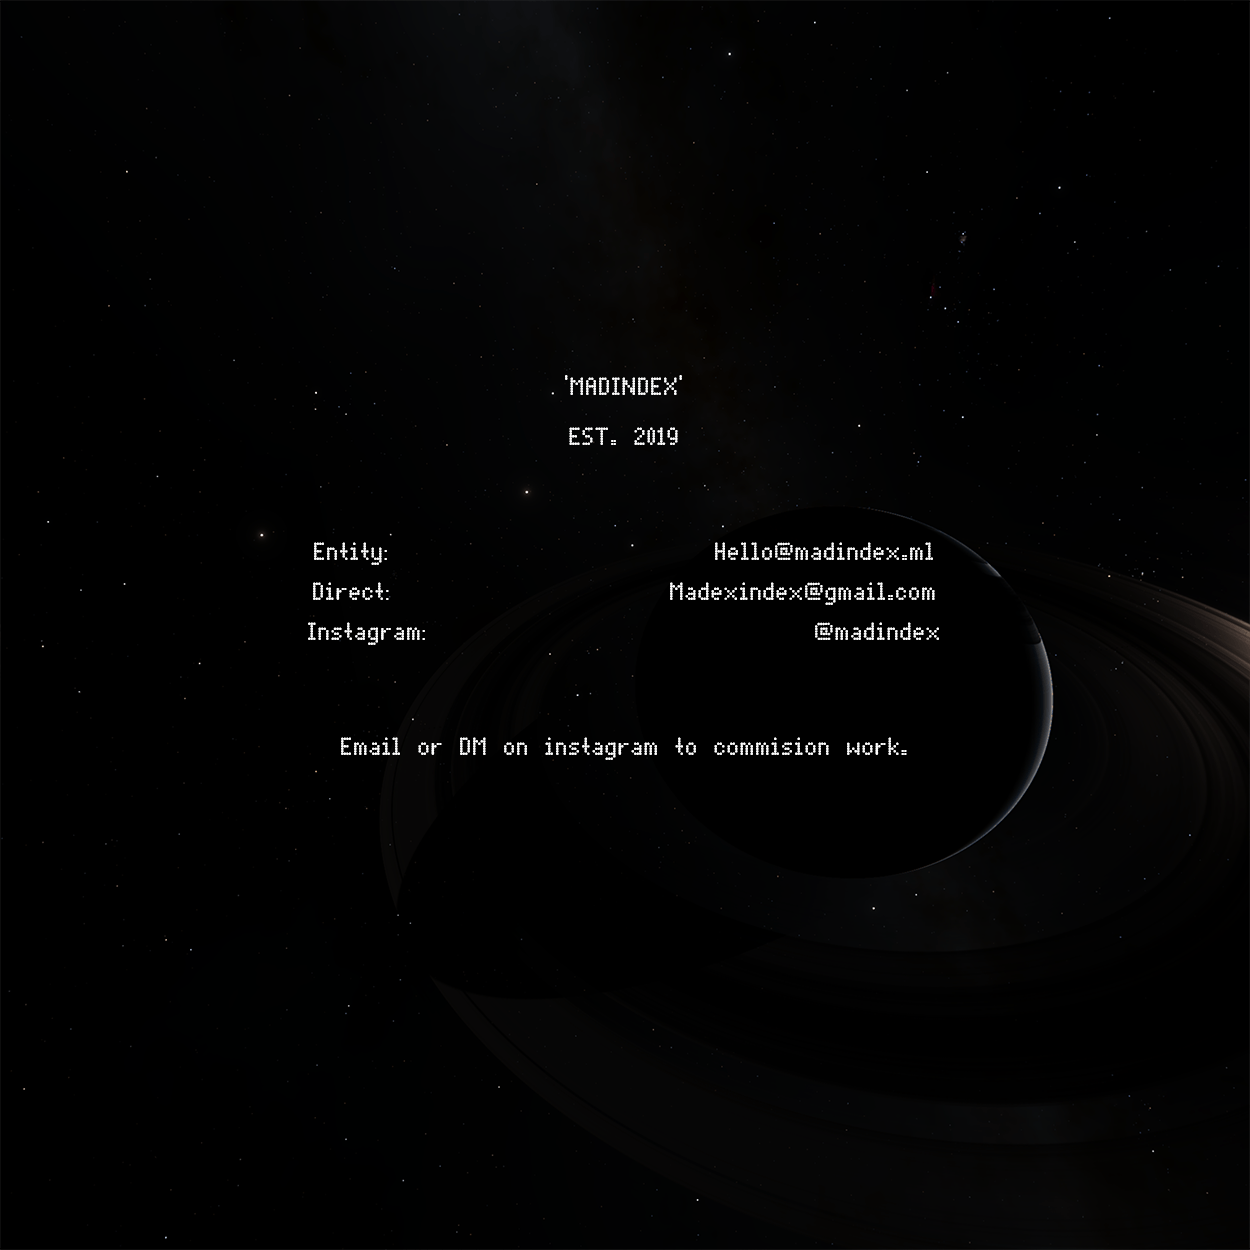
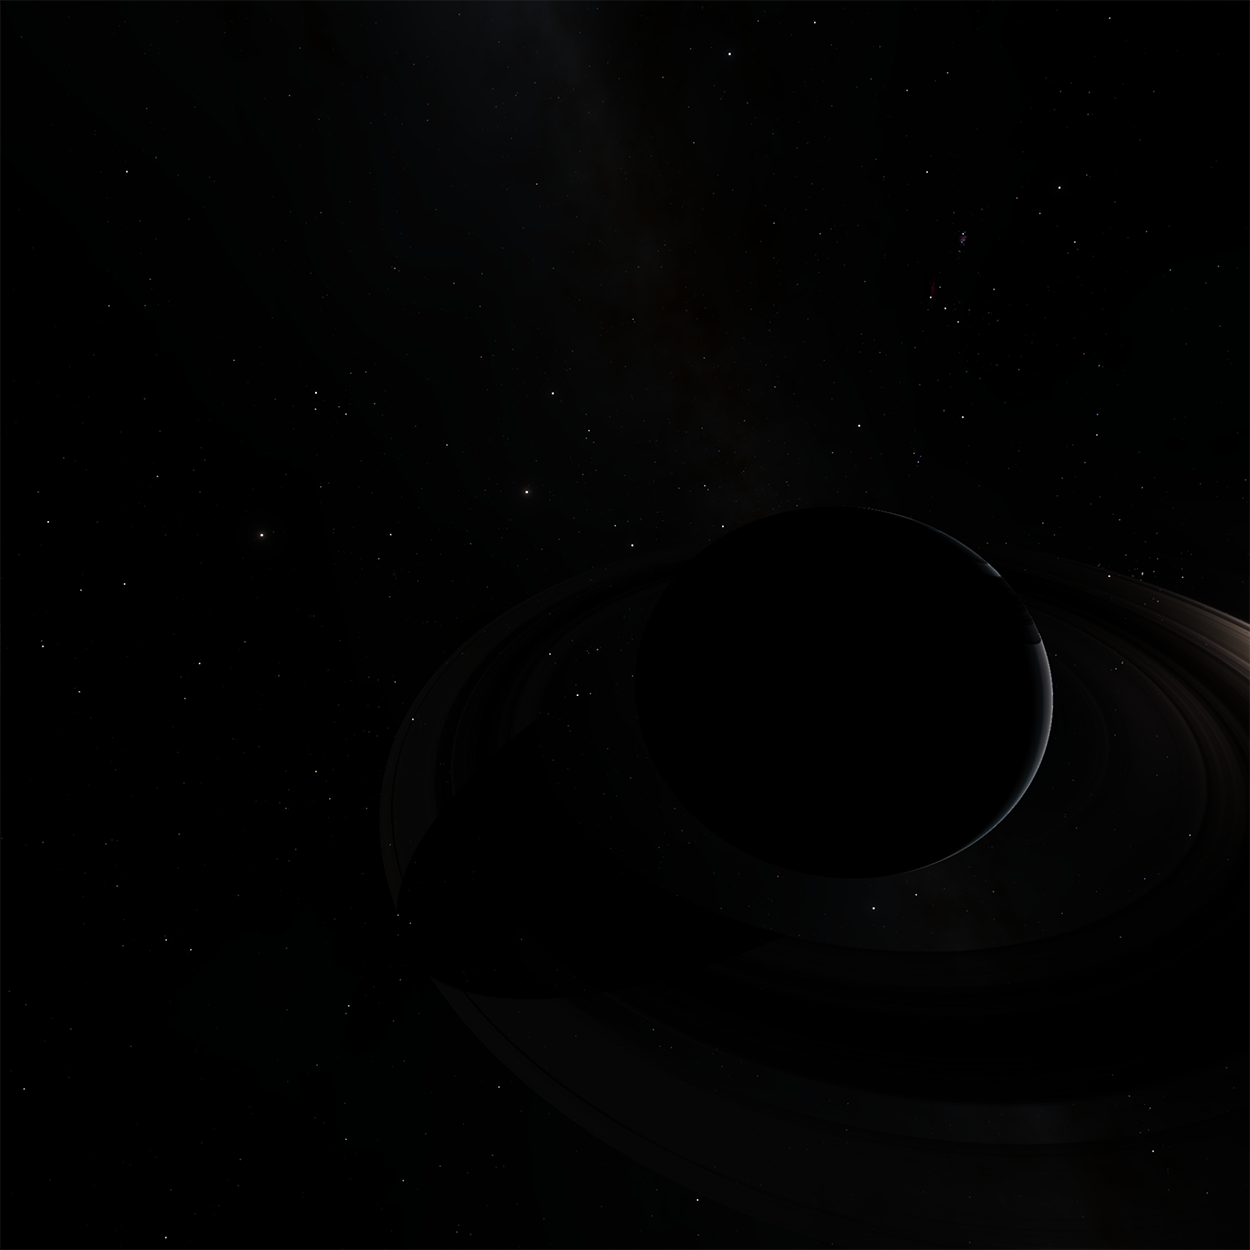
update

diff --git a/index.html b/index.html
@@ -21,41 +21,57 @@ $(window).on('load', function(){
   setTimeout(removeLoader, 2000); //wait for page load PLUS two seconds.
 });
 function removeLoader(){
+
     $( "#loadingDiv" ).fadeOut(500, function() {
+        $('html, body').css({overflow: 'hidden'});
       // fadeOut complete. Remove the loading div
+      $('html, body').css({overflow: 'visible'});
       $( "#loadingDiv" ).remove(); //makes page more lightweight 
   });  
 }
 </script>
+    
+<div class="header">
+    <p>hey</p>
+</div>
 
+<canvas style="position:fixed;border:none;max-width:10%;max-height:10%;z-index:3;padding-top:1%;padding-left:1%;", id="hero-lightpass"></canvas>
 
+<div id="div1"></div>
     
 <script>
 
 var scene = new THREE.Scene();
 var camera = new THREE.PerspectiveCamera(60, 1, 1, 1000);
-camera.position.set(0, 0, 50);
+camera.position.set(0, 0, 0);
+camera.rotation.y = -20.35;
 var renderer = new THREE.WebGLRenderer({
   antialias: true
 });
 renderer.setClearColor(0x808080);
 renderer.setPixelRatio( window.devicePixelRatio );
 renderer.physicallyCorrectLights = true;
-var canvas = renderer.domElement
-document.body.appendChild(canvas);
+var canva = renderer.domElement
+document.body.appendChild(canva);
     
 sphereCamera = new THREE.CubeCamera(1,1000,50);
 sphereCamera.position.set(0,100,0);
 scene.add(sphereCamera);
 
-var controls = new THREE.OrbitControls(camera, renderer.domElement);
-controls.enableZoom = false;
+
+function updateCamera(ev) {
+    let div1 = document.getElementById("div1");
+	camera.rotation.y = -1.5 + window.scrollY / 250.0;
+}
+window.addEventListener("scroll", updateCamera);
+
     
 let urls = [
     'pxx.png', 'nxx.png',
     'pyy.png', 'nyy.png',
     'pzz.png', 'nzz.png'
 ];
+
     
 let loaded = new THREE.CubeTextureLoader();
     scene.background = loaded.load(urls);
@@ -68,21 +84,24 @@ scene.add( directionalLight );
 directionalLight.position.set(0.5,0,2);
 
 render();
+animate();
 
 function render() {
   if (resize(renderer)) {
-    camera.aspect = canvas.clientWidth / canvas.clientHeight;
+    camera.aspect = canva.clientWidth / canva.clientHeight;
     camera.updateProjectionMatrix();
   }
+  camera.rotation.x += 0.001;
   renderer.render(scene, camera);
   requestAnimationFrame(render);
 }
+    
 
 function resize(renderer) {
-  const canvas = renderer.domElement;
-  const width = canvas.clientWidth;
-  const height = canvas.clientHeight;
-  const needResize = canvas.width !== width || canvas.height !== height;
+  const canva = renderer.domElement;
+  const width = canva.clientWidth;
+  const height = canva.clientHeight;
+  const needResize = canva.width !== width || canva.height !== height;
   if (needResize) {
     renderer.setSize(width, height, false);
   }
@@ -90,5 +109,7 @@ function resize(renderer) {
 }
 </script>
 <script src="madin.js"></script>
+<div class="funny">
+</div>
 </body> 
 </html>

diff --git a/css/style.css b/css/style.css
@@ -1,41 +1,82 @@
 html, body {
+  overflow: auto;
   height: 100%;
   width: 100%;
   margin: 0;
-  overflow: hidden;
+  background-color: black;
 }
 canvas {
   object-fit: cover;
+  position: fixed;
   width: 100%;
   height: 100%;
   display: block;
+  margin: 0 auto;
+  z-index: 1;
 }
-canver {
+.header {
+    position: fixed;
+    z-index: 2;
+    width: 100%;
+    padding-top: 5%;
+    background-color: black;
+    border-bottom: 1px solid ghostwhite;
+}
+.funny {
+    padding-top: 200%;
+}
+placer {
+  object-fit: cover;
+  width: 50%;
+  height: 50%;
+  display: block;
+  margin: 0 auto;
+  margin-top: 30%;
+  z-index: 1;
+  border: 1px solid white;
+}
+coocoo {
   position: fixed;
   max-width: 100%;
   max-height: 100%;
   left: 50%;
   z-index: 999;
+  margin-top: 10%;
 }
 a:hover, a:visited, a:link, a:active
 {text-decoration: none;
 color: white;}
 
+.border {
+  position: fixed;
+  top: 0;
+  left: 0;
+  border: 12px solid red;
+  width: 100%;
+  height: 100%;
+  margin: 0;
+  padding: 0;
+  box-sizing: border-box;
+  z-index: -1;
+}
 .post {
     position: static;
     display: flex;
     justify-content: center;
     margin-top: 20%;
+    z-index: 999;
 }
 .loader,
 .loader:after {
     border-radius: 50%;
     width: 100%;
     height: 100%;
+    z-index: 999;
 }
 #loadingDiv {
     position:absolute;
     width:100%;
     height:100%;
     background-color:#FFF;
+    z-index: 999;
 }

diff --git a/css/style.min.css b/css/style.min.css
@@ -1,1 +1,1 @@
-body,html{height:100%;width:100%;margin:0;overflow:hidden}canvas{object-fit:cover;width:100%;height:100%;display:block}canver{position:fixed;max-width:100%;max-height:100%;left:50%;z-index:999}a:active,a:hover,a:link,a:visited{text-decoration:none;color:#fff}.post{position:static;display:flex;justify-content:center;margin-top:20%}.loader,.loader:after{border-radius:50%;width:100%;height:100%}#loadingDiv{position:absolute;width:100%;height:100%;background-color:#fff}
+body,html{height:100%;width:100%;margin:0;overflow:scroll;background-color:#000}canvas{object-fit:cover;width:50%;height:50%;display:block;margin:0 auto;margin-top:30%;z-index:1;border:1px solid #fff}coocoo{position:fixed;max-width:100%;max-height:100%;left:50%;z-index:999;margin-top:10%}a:active,a:hover,a:link,a:visited{text-decoration:none;color:#fff}.border{position:fixed;top:0;left:0;border:12px solid red;width:100%;height:100%;margin:0;padding:0;box-sizing:border-box;z-index:-1}.post{position:static;display:flex;justify-content:center;margin-top:20%}.loader,.loader:after{border-radius:50%;width:100%;height:100%}#loadingDiv{position:absolute;width:100%;height:100%;background-color:#fff}
